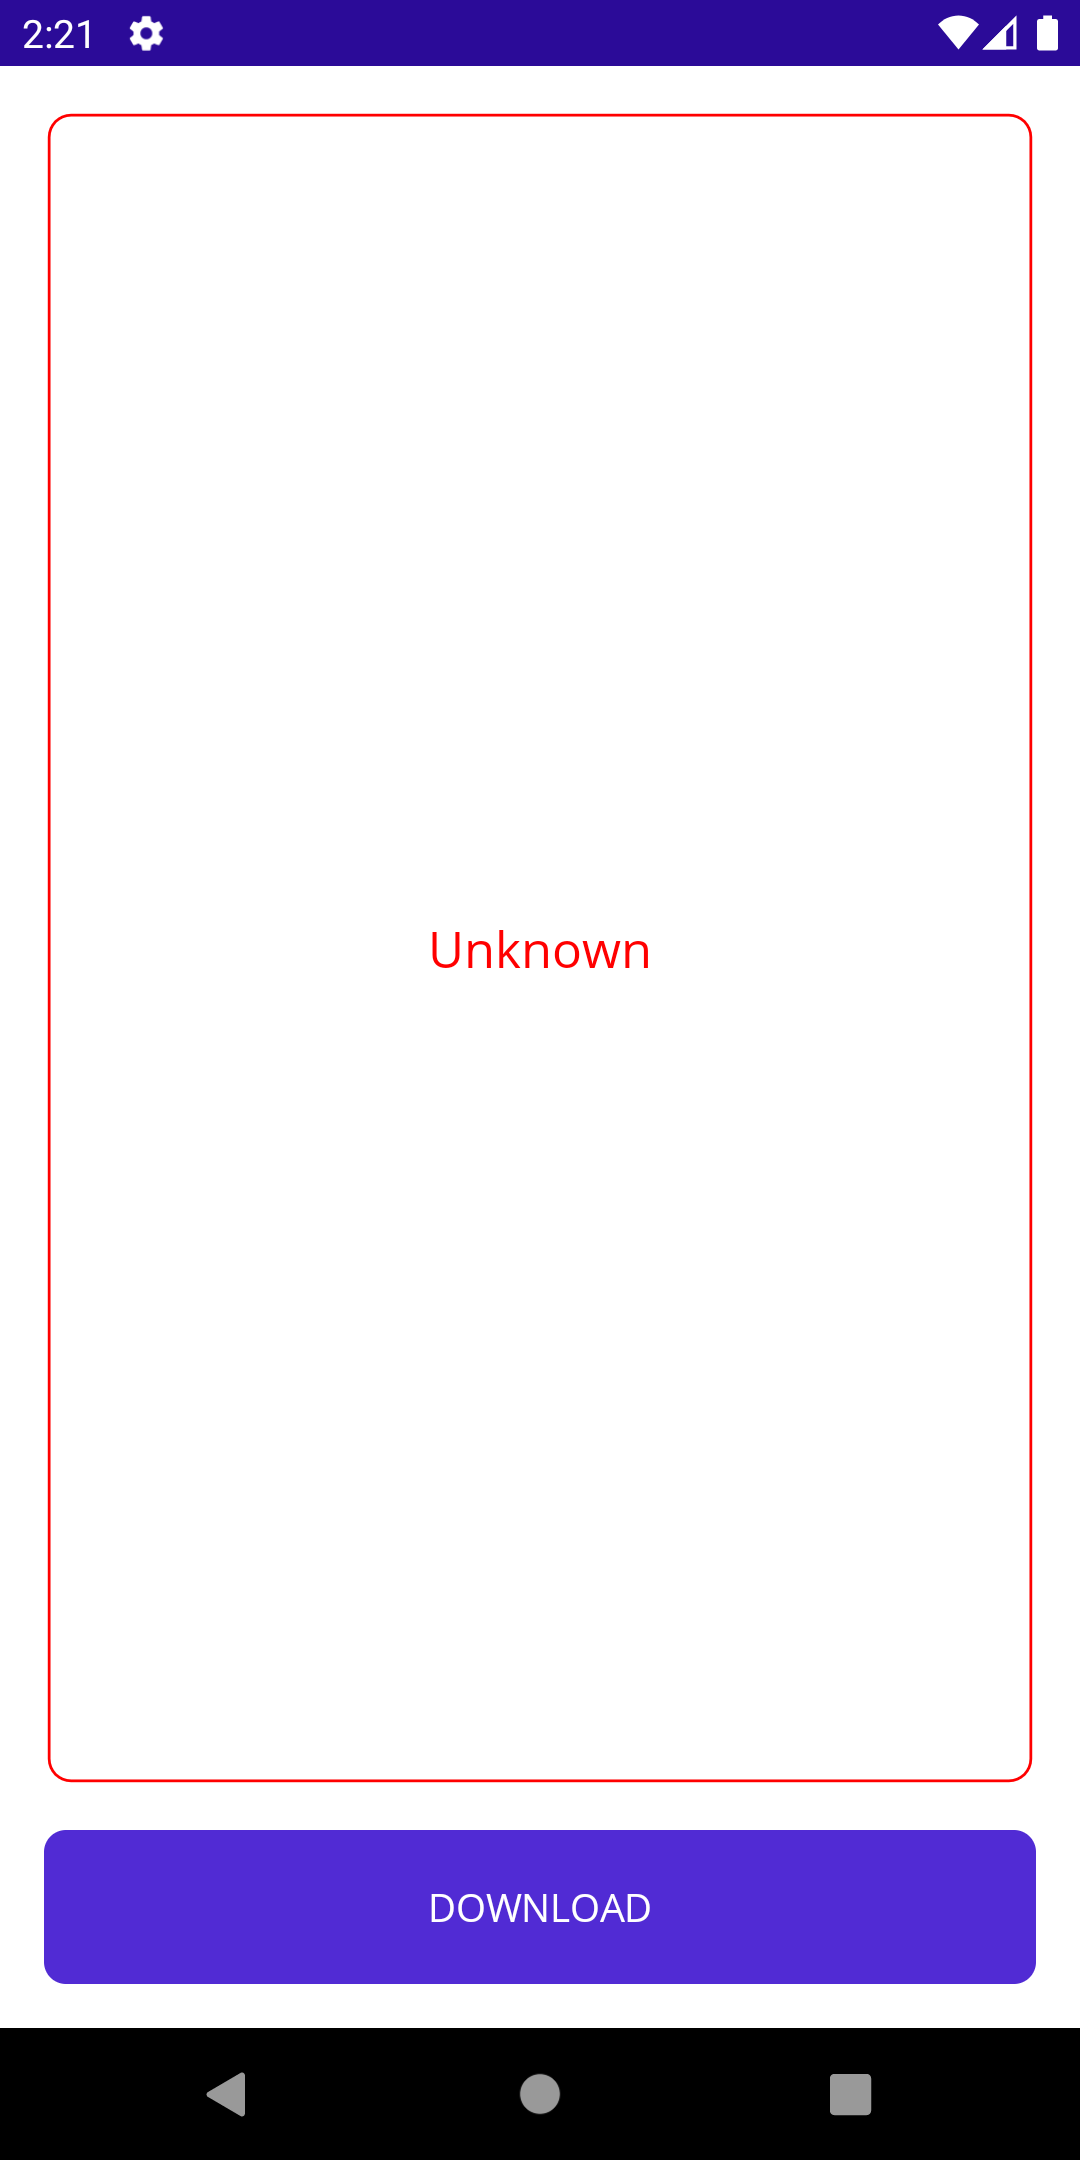
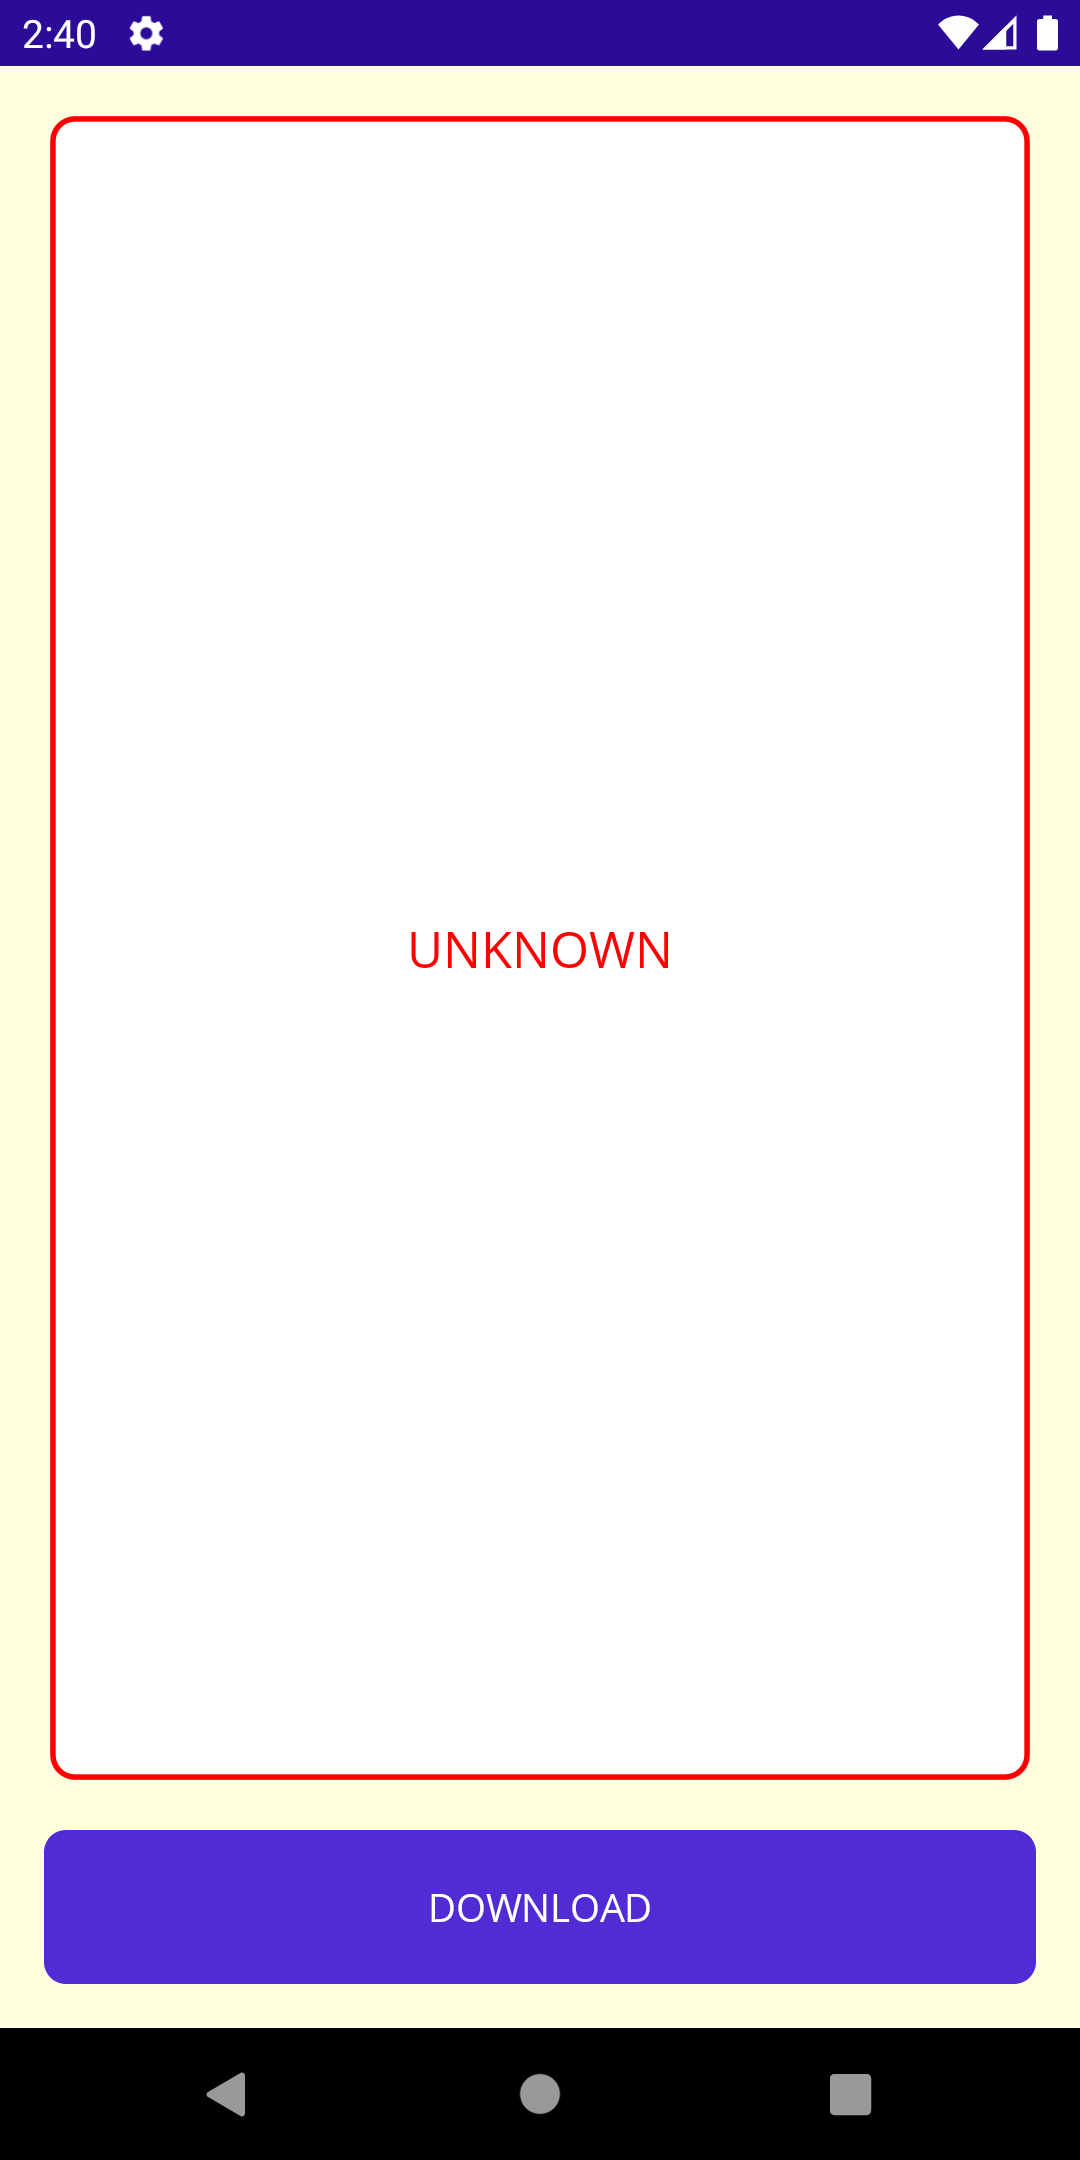
refactor: change background color

Changed region(s): [[0.0, 0.0, 1.0, 0.9616], [0.3972, 0.4343, 0.6111, 0.4653]]

diff --git a/src/Download/Views/MainPage.xaml b/src/Download/Views/MainPage.xaml
@@ -3,7 +3,8 @@
              xmlns:x="http://schemas.microsoft.com/winfx/2009/xaml"
              xmlns:vm="clr-namespace:Download.ViewModels"
              x:Class="Download.Views.MainPage"
-             x:DataType="vm:MainViewModel">
+             x:DataType="vm:MainViewModel"
+             BackgroundColor="LightYellow">
 
     <Grid
         Margin="16"
@@ -15,7 +16,7 @@
             Padding="32"
             Stroke="Red"
             StrokeShape="RoundRectangle 8"
-            StrokeThickness="1">
+            StrokeThickness="2">
             <Label
                 TextColor="Red"
                 Text="{Binding Results}"

diff --git a/src/Download/ViewModels/MainViewModel.cs b/src/Download/ViewModels/MainViewModel.cs
@@ -5,12 +5,12 @@ public partial class MainViewModel : BaseViewModel
     private readonly HttpClient manager = new();
 
     [ObservableProperty]
-    string results = "Unknown";
+    string results = "UNKNOWN";
 
     [RelayCommand]
     async Task Download()
     {
-        Results = "Loading";
+        Results = "LOADING";
         await Task.Delay(TimeSpan.FromSeconds(5));
         var storage = FileSystem.Current.CacheDirectory;
         var deposit = Directory.CreateDirectory(Path.Combine(storage, Path.GetRandomFileName()[..8])).FullName;

diff --git a/README.md b/README.md
@@ -5,8 +5,3 @@ MAUI application that uses the HttpClient package.
 ## <samp>OVERVIEW</samp>
 
 <img src="assets/img1.png" width="32.333%"/><img src="assets/none.png" width="1.5%"/><img src="assets/img2.png" width="32.333%"/><img src="assets/none.png" width="1.5%"/><img src="assets/img3.png" width="32.333%"/>
-
-## <samp>GUIDANCE</samp>
-
-```
-```
